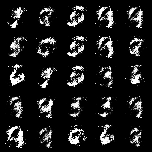
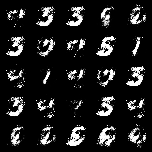
last update(cal epsilon, hyperparams optimal, etc)

diff --git a/pretrain_D.py b/pretrain_D.py
@@ -1,13 +1,15 @@
 import torch
 import torch.optim as optim
 from nets import Generator
+
+
 def pretrain_discriminator(D, data_loader, epochs, batch_size, noise_dim, cuda):
     D.train()
-    PreG = Generator()
+    preG = Generator()
     if cuda:
-        PreG = PreG.cuda()
+        preG = preG.cuda()
     optimizerD = optim.Adam(D.parameters(), lr=1e-4, betas=(0.5, 0.9))
-    optimizerG = optim.Adam(PreG.parameters(), lr=1e-4, betas=(0.5, 0.9))
+    optimizerG = optim.Adam(preG.parameters(), lr=1e-4, betas=(0.5, 0.9))
 
     for epoch in range(epochs):
         for i, (real_imgs, _) in enumerate(data_loader):
@@ -23,7 +25,7 @@ def pretrain_discriminator(D, data_loader, epochs, batch_size, noise_dim, cuda):
             noise = torch.randn(batch_size, noise_dim)
             if cuda:
                 noise = noise.cuda()
-            fake_data = PreG(noise)
+            fake_data = preG(noise)
             fake_decision = D(fake_data)
             fake_loss = torch.mean(fake_decision)
 
@@ -31,12 +33,14 @@ def pretrain_discriminator(D, data_loader, epochs, batch_size, noise_dim, cuda):
             d_loss.backward()
             optimizerD.step()
 
-            PreG.zero_grad()
-            fake_data = PreG(noise)
+            preG.zero_grad()
+            fake_data = preG(noise)
             decision = D(fake_data)
             g_loss = -torch.mean(decision)
             g_loss.backward()
             optimizerG.step()
 
             if i % 100 == 0:
-                    print(f"Epoch: {epoch}, Batch: {i}, Loss: {real_loss.item()}")
+                print(f"Epoch: {epoch}, Batch: {i}, Loss: {real_loss.item()}")
+
+    del preG

diff --git a/main.py b/main.py
@@ -109,6 +109,8 @@ if __name__ == "__main__":
             # no hook
             if args.config_model == 3:
                 utils.dynamic_hook = utils.dummy_hook
+                for p in D.parameters():
+                    p.requires_grad = True
 
             optimizer_D.zero_grad()
             z = torch.randn((bs, noise_dim))
@@ -117,7 +119,6 @@ if __name__ == "__main__":
             fake_imgs = G(z).detach()
             D_real_score = D(real_imgs)
             if args.config_model == 2:
-                # gradient penalty is included in opacus
                 loss_D = -torch.mean(D_real_score) + torch.mean(D(fake_imgs))
             else:
                 gp = utils.grad_penalty(D, real_imgs, fake_imgs, cuda)
@@ -138,6 +139,8 @@ if __name__ == "__main__":
             ############################################
             if args.config_model == 3:
                 utils.dynamic_hook = utils.dp_hook(sensitivity, cfg['noise_multiplier'], cfg['clip_bound_batch'])
+                for p in D.parameters():
+                    p.requires_grad = False
 
             optimizer_G.zero_grad()
             gen_imgs = G(z)
@@ -155,6 +158,8 @@ if __name__ == "__main__":
         if args.config_model == 2:
             epsilon = privacy_engine.accountant.get_epsilon(delta=cfg['delta'])
             print(f"ε = {epsilon}, δ = {cfg['delta']}")
+        elif args.config_model == 3 and epoch == total_epochs - 1:
+            utils.cal_privacy_budget(cfg)
         # save images 5*5
         save_image(gen_imgs.data[:25], "%s/ep%d.png" % (gen_images_dir, (epoch + 1)), nrow=5,
                    normalize=True)

diff --git a/utils.py b/utils.py
@@ -1,6 +1,9 @@
 import torch
-import matplotlib.pyplot as plt
+import os
+import sys
 import numpy as np
+from autodp import rdp_acct, rdp_bank
+
 
 # gradient penalty
 def grad_penalty(discriminator, real_images, fake_images, cuda):
@@ -20,6 +23,7 @@ def grad_penalty(discriminator, real_images, fake_images, cuda):
     gradient_penalty = ((gradients.norm(2, dim=1) - 1) ** 2).mean()
     return gradient_penalty
 
+
 # pruning
 # TODO
 
@@ -28,8 +32,10 @@ def master_hook_adder(module, grad_input, grad_output):
     global dynamic_hook
     return dynamic_hook(module, grad_input, grad_output)
 
+
 def dummy_hook(module, grad_input, grad_output):
     pass
+
 
 def dp_hook(sensitivity, noise_multiplier, clip_bound_batch):
     def hook_function(module, grad_input, grad_output):
@@ -59,3 +65,17 @@ def dp_hook(sensitivity, noise_multiplier, clip_bound_batch):
         return tuple(grad_in_new)
 
     return hook_function
+
+# calculate epsilon based on Renyi DP
+def cal_privacy_budget(cfg):
+    delta = cfg['delta']
+    batch_size = cfg['batch_size']
+    n_steps = cfg['total_iterations']
+    sigma = cfg['noise_multiplier']
+    func = lambda x: rdp_bank.RDP_gaussian({'sigma': sigma}, x)
+
+    acct = rdp_acct.anaRDPacct()
+    acct.compose_subsampled_mechanism(func, cfg['sample_prop'], coeff=n_steps * batch_size)
+    epsilon = acct.get_eps(delta)
+    print(f"ε = {epsilon}, δ = {delta}")
+

diff --git a/config.py b/config.py
@@ -24,8 +24,11 @@ config_gs_wgan = {
     'lr_G': 2e-4,
     'gen_images_dir': "./gen_images_gswgan",
     'num_workers': 0,
-    'total_epochs': 55,
+    'total_epochs': 50,
+    'total_iterations': 456,
     'batch_size': 128,
-    'noise_multiplier': 0.3,
-    'clip_bound_batch': 1.0
+    'noise_multiplier': 0.5,
+    'clip_bound_batch': 1.0,
+    'delta': 1e-4,
+    'sample_prop': 2e-3
 }
